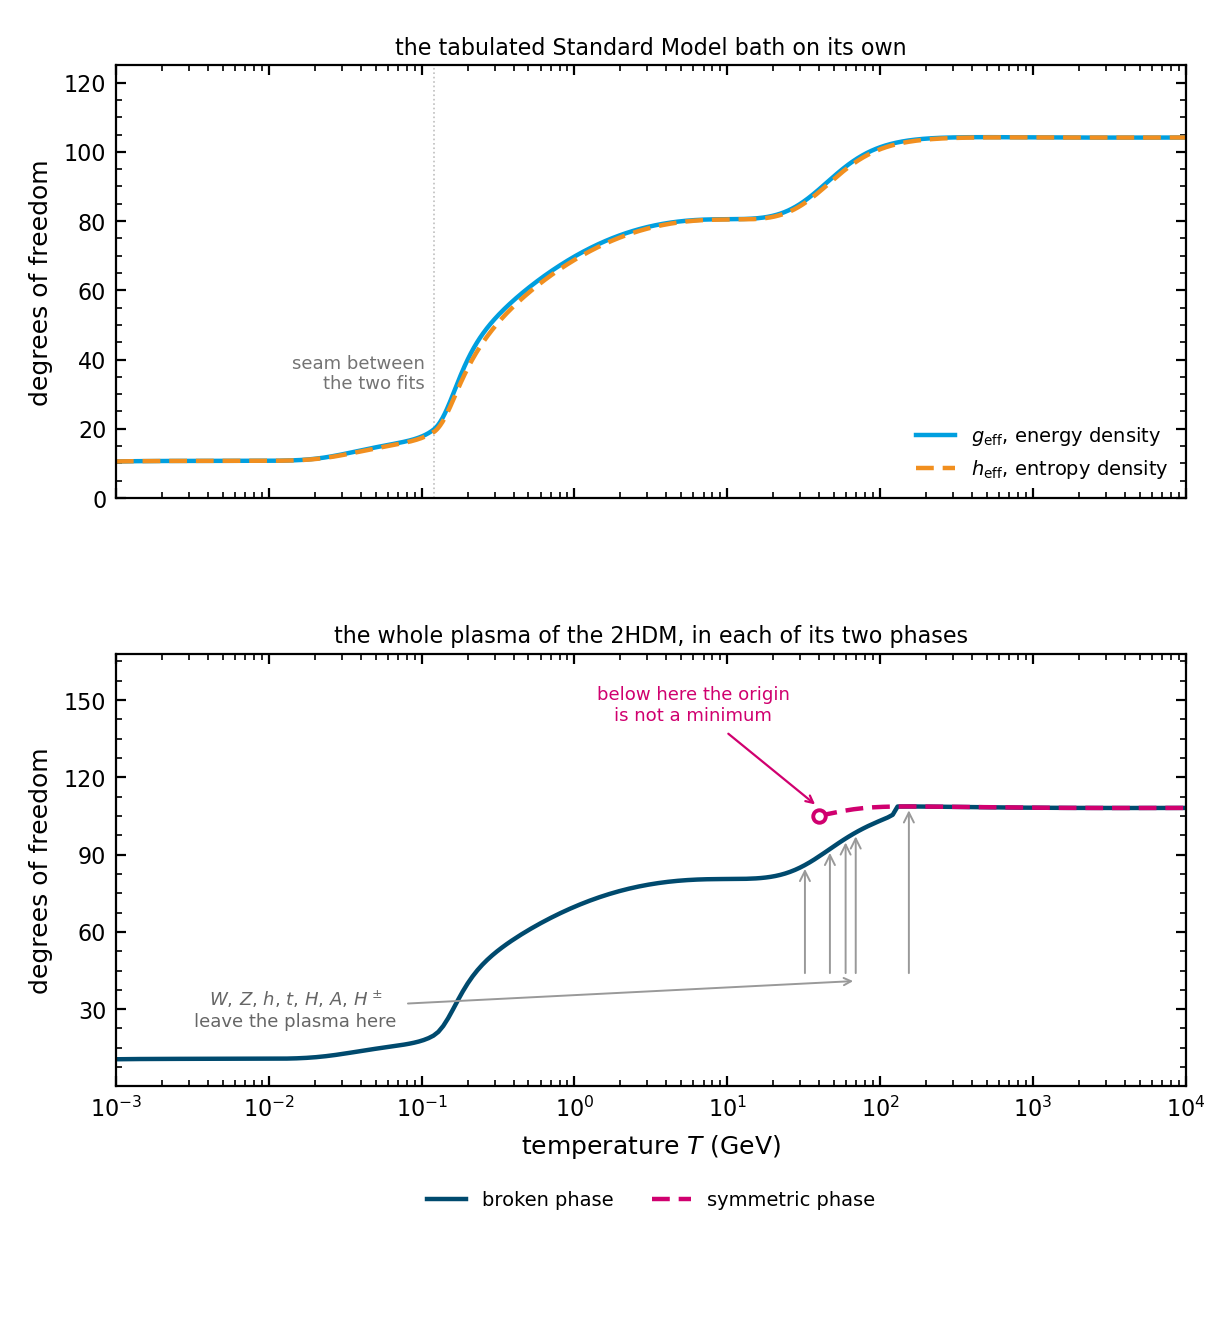
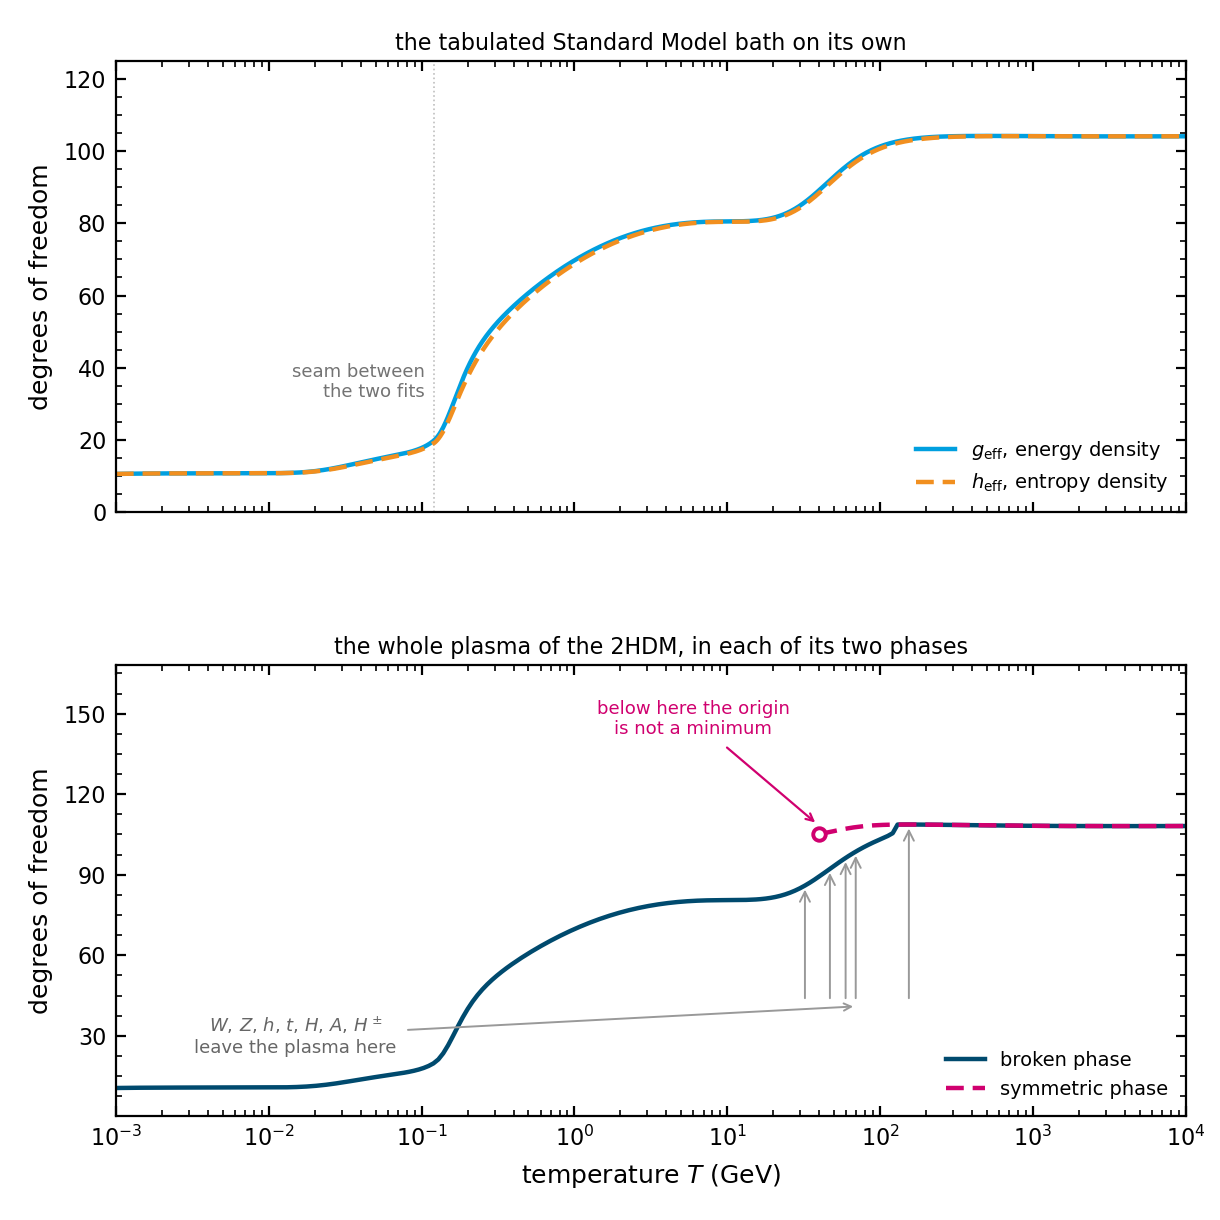
Keep the legends inside the panels and let the LISA band leave the frame

diff --git a/docs/make_algorithm_figures.py b/docs/make_algorithm_figures.py
@@ -401,7 +401,7 @@ def figure_plasma_dof() -> None:
         half.append((label, float(np.mean(roots))))
 
     use_house_style()
-    fig, (a1, a2) = plt.subplots(2, 1, figsize=(WIDTH, 1.08 * WIDTH), sharex=True)
+    fig, (a1, a2) = plt.subplots(2, 1, figsize=(WIDTH, 1.00 * WIDTH), sharex=True)
 
     a1.plot(T, g_rho, color=DESYcyan, lw=1.6, label=r"$g_{\rm eff}$, energy density")
     a1.plot(T, g_s, color=DESYorange, lw=1.6, ls=(0, (4, 2)),
@@ -445,10 +445,10 @@ def figure_plasma_dof() -> None:
     a2.set_ylabel("degrees of freedom")
     a2.set_xlim(T[0], T[-1])
     a2.set_ylim(0.0, 168.0)
-    a2.legend(frameon=False, loc="upper center", bbox_to_anchor=(0.5, -0.20), ncol=2)
+    a2.legend(frameon=False, loc="lower right")
     a2.set_title("the whole plasma of the 2HDM, in each of its two phases", fontsize=8, pad=4)
 
-    fig.subplots_adjust(left=0.095, right=0.972, bottom=0.175, top=0.950, hspace=0.36)
+    fig.subplots_adjust(left=0.095, right=0.972, bottom=0.085, top=0.950, hspace=0.34)
     _check(fig, "algorithm_plasma_dof")
     fig.savefig(OUT / "algorithm_plasma_dof.png", dpi=200)
     plt.close(fig)
@@ -656,7 +656,7 @@ def figure_spectrum_sources() -> None:
              ("Wall collisions", "bubble collisions", DESYaubergine, (0, (1, 1.6)))]
 
     use_house_style()
-    fig, ax = plt.subplots(figsize=(WIDTH, 0.74 * WIDTH))
+    fig, ax = plt.subplots(figsize=(WIDTH, 0.92 * WIDTH))
 
     # The shipped LISA power-law-integrated sensitivity, at the threshold and observation time
     # the package stores with it. A spectrum above this curve is detectable.
@@ -665,8 +665,10 @@ def figure_spectrum_sources() -> None:
     lisa = GW_Sensitivity_Data().det["LISA"]
     f_pli = np.asarray(lisa["f_PLI"], dtype=float)
     pli = np.asarray(lisa["PLI"], dtype=float)
-    # Cut at the top of the panel, so the curve leaves the frame instead of stopping in it.
-    band = (f_pli >= f[0]) & (f_pli <= f[-1]) & (pli <= 1.2e-8)
+    # Over the whole frequency range the curve is tabulated on. The panel clips it at the
+    # top, so it leaves the frame rather than ending at a frequency the sensitivity has
+    # nothing to do with.
+    band = (f_pli >= f[0]) & (f_pli <= f[-1]) & np.isfinite(pli)
     # A shallow shadow under the curve rather than the whole region below it, which would
     # cover most of the panel and put the two weaker sources inside grey. What rises above the
     # curve is detectable, and the sound-wave peak here does.
@@ -674,7 +676,7 @@ def figure_spectrum_sources() -> None:
     # Named in the legend rather than beside the band: the band fills the one part of the
     # panel a label could sit in without touching a curve.
     ax.plot(f_pli[band], pli[band], color="0.50", lw=1.1, zorder=1,
-            label="LISA, power-law integrated")
+            label="LISA")
 
 
 
@@ -687,14 +689,14 @@ def figure_spectrum_sources() -> None:
     ax.set_xlabel(r"frequency $f$ (Hz)")
     ax.set_ylabel(r"$h^2\Omega_{\rm GW}$")
     ax.set_xlim(0.75 * f[0], 1.35 * f[-1])
-    ax.set_ylim(3e-19, 1.2e-8)
+    ax.set_ylim(3e-19, 1.0e-5)
     # A legend rather than labels beside the curves: with the LISA band in the panel there is
     # one block of empty space left, at low frequency and high amplitude, and it is too far
     # from any of the three curves to label them there.
-    # Below the panel: with four curves and a shaded band there is no block inside it that
-    # a legend fits into without covering something.
-    ax.legend(frameon=False, loc="upper center", bbox_to_anchor=(0.5, -0.155),
-              ncol=2, fontsize=7)
+    # Two columns, in the strip of headroom above every curve. A single column does not fit
+    # anywhere inside this panel without covering something, which a scan of the rendered
+    # panel says directly.
+    ax.legend(frameon=False, loc="upper left", fontsize=7, handlelength=1.6)
     ax.set_title(
         r"$\alpha = 0.2$,  $R_* = 0.05$,  $T_\mathrm{reh} = 100$ GeV,  "
         r"$v_\mathrm{w} = 0.65$,  $c_\mathrm{s} = 1/\sqrt{3}$" "\n"
@@ -702,7 +704,7 @@ def figure_spectrum_sources() -> None:
         r"$\kappa_\mathrm{turb} = %.3f$,  $\kappa_\phi = 0.02$ set by hand"
         % (k_sw, 0.1 * k_sw),
         fontsize=7, pad=5, loc="left")
-    fig.subplots_adjust(left=0.105, right=0.985, bottom=0.255, top=0.890)
+    fig.subplots_adjust(left=0.105, right=0.985, bottom=0.105, top=0.885)
     _check(fig, "algorithm_spectrum_sources")
     fig.savefig(OUT / "algorithm_spectrum_sources.png", dpi=200)
     plt.close(fig)

diff --git a/docs/check_figure_style.py b/docs/check_figure_style.py
@@ -312,6 +312,11 @@ def check_curves_span(ax, name: str = "panel", skip: tuple = ()) -> list[str]:
         if xs.size < 3:
             continue
         for x, y, which in ((xs[0], ys[0], "starts"), (xs[-1], ys[-1], "ends")):
+            # An end outside the limits is an end the panel clips, so the curve leaves the
+            # frame and the rule is satisfied. Only an end that stops inside it is a defect.
+            if not (min(xlo, xhi) <= x <= max(xlo, xhi)
+                    and min(ylo, yhi) <= y <= max(ylo, yhi)):
+                continue
             fx = abs(x - xlo) / abs(xhi - xlo), abs(x - xhi) / abs(xhi - xlo)
             fy = abs(y - ylo) / abs(yhi - ylo), abs(y - yhi) / abs(yhi - ylo)
             if min(fx + fy) > EDGE_TOLERANCE:

diff --git a/docs/source/algorithms/the_spectrum.rst b/docs/source/algorithms/the_spectrum.rst
@@ -184,9 +184,11 @@ eddy turnovers and :math:`v_A = \sqrt{3\Omega_s/4}` is the Alfvén velocity.
    The sound-wave spectrum rises as :math:`f^3`, turns over to :math:`f` between its two
    breaks and falls as :math:`f^{-3}`; with the breaks a factor twenty-two apart the middle
    segment is short, and what the eye reads is the change of curvature rather than a straight
-   piece. The grey curve is LISA's power-law-integrated sensitivity as the package ships it,
-   at the threshold and observation time stored with it. A spectrum that rises above that
-   curve is detectable, and this one does.
+   piece. The grey curve marked LISA is the power-law-integrated sensitivity as the package
+   ships it, at the threshold and observation time stored with it, with a shallow shadow
+   beneath it so that it reads as a band. A spectrum that rises above it is detectable, and
+   this one does. The curve leaves the top of the panel at both ends, where the sensitivity is
+   poor; it does not stop there.
 
 Observability
 -------------
